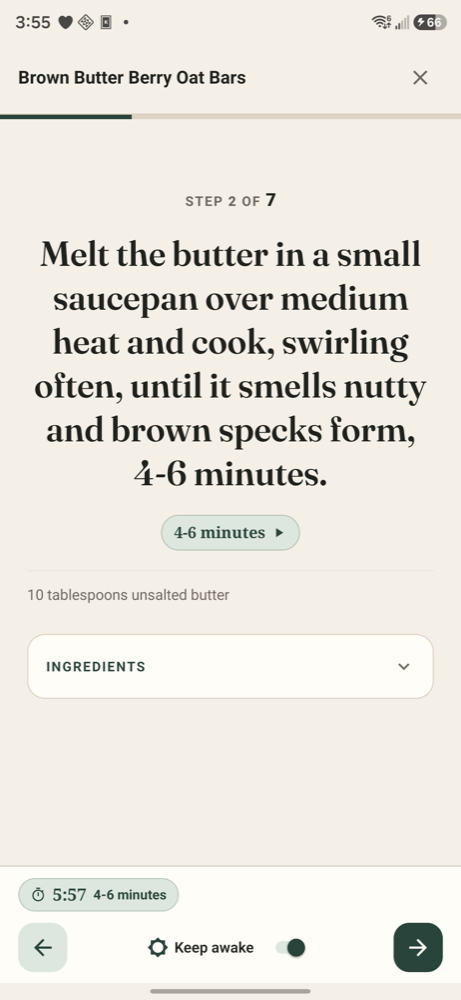
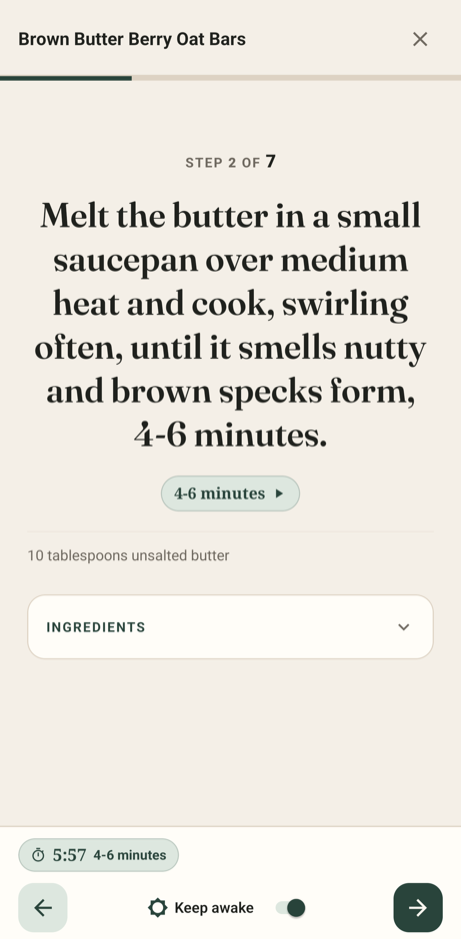
Crop device chrome from screenshots

diff --git a/site/index.html b/site/index.html
@@ -162,7 +162,7 @@
                 src="assets/hero-cookmode.png"
                 alt="Cook mode with a running timer"
                 width="461"
-                height="1000"
+                height="939"
               />
             </figure>
             <figure class="phone-frame phone-frame-front">
@@ -170,7 +170,7 @@
                 src="assets/hero-cookbook.png"
                 alt="Your LinkDish cookbook"
                 width="461"
-                height="1000"
+                height="939"
               />
             </figure>
           </div>
@@ -290,7 +290,7 @@
                     src="assets/screen-cookmode.png"
                     alt="LinkDish cook mode with large recipe steps and timers"
                     width="720"
-                    height="1560"
+                    height="1467"
                   />
                 </figure>
               </div>
@@ -325,7 +325,7 @@
                     src="assets/screen-recipe.png"
                     alt="LinkDish recipe view with serving controls and ingredients"
                     width="720"
-                    height="1560"
+                    height="1467"
                   />
                 </figure>
               </div>
@@ -338,7 +338,7 @@
                     src="assets/screen-shopping.png"
                     alt="LinkDish household shopping list"
                     width="720"
-                    height="1560"
+                    height="1467"
                   />
                 </figure>
               </div>
@@ -364,7 +364,7 @@
                   src="assets/screen-recipe.png"
                   alt=""
                   width="720"
-                  height="1560"
+                  height="1467"
                 />
               </div>
               <figcaption>Half it. Double it. Custom it.</figcaption>
@@ -376,7 +376,7 @@
                   src="assets/screen-cookmode.png"
                   alt=""
                   width="720"
-                  height="1560"
+                  height="1467"
                 />
               </div>
               <figcaption>Timers parsed straight from the steps.</figcaption>
@@ -388,7 +388,7 @@
                   src="assets/screen-shopping.png"
                   alt=""
                   width="720"
-                  height="1560"
+                  height="1467"
                 />
               </div>
               <figcaption>Tap an ingredient, it's on the list.</figcaption>

diff --git a/site/styles.css b/site/styles.css
@@ -897,14 +897,14 @@ p {
 .macro-recipe {
   left: 50%;
   top: 0;
-  transform: translate(-50%, -35%);
+  transform: translate(-50%, -33%);
   width: 128%;
 }
 
 .macro-cookmode {
   left: 0;
   top: 0;
-  transform: translate(-2%, -87%);
+  transform: translate(-2%, -87.5%);
 }
 
 .macro-shopping {
